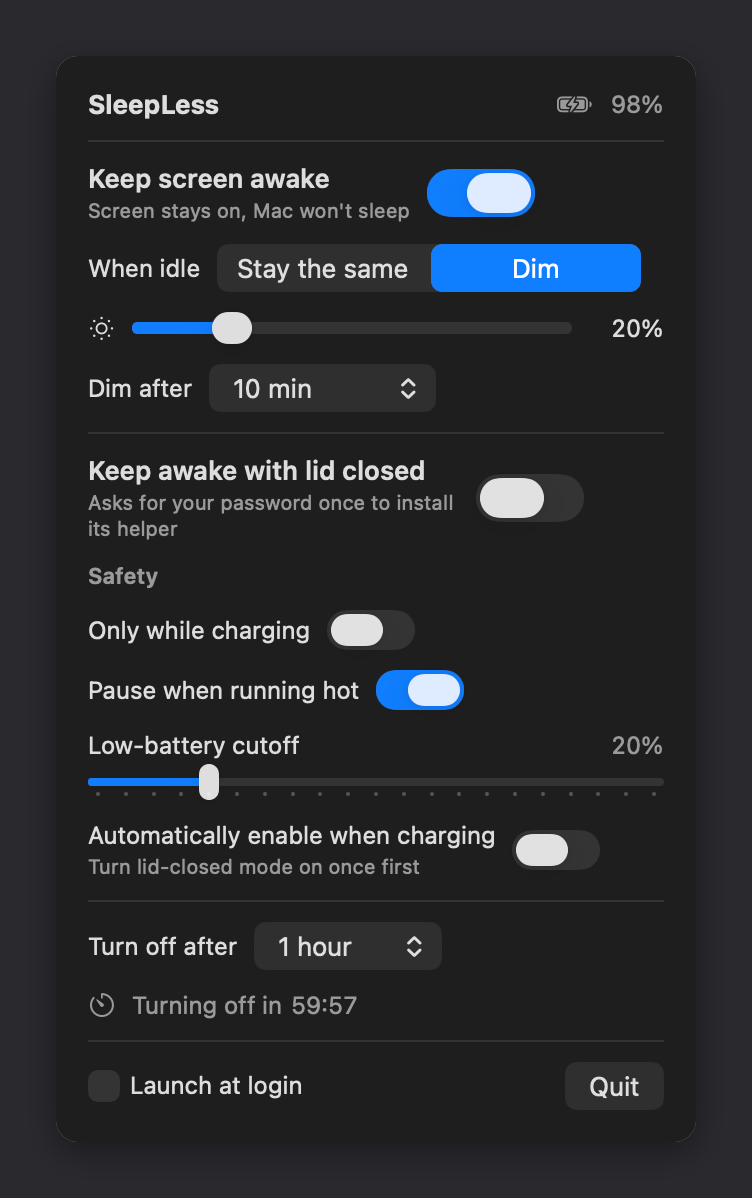
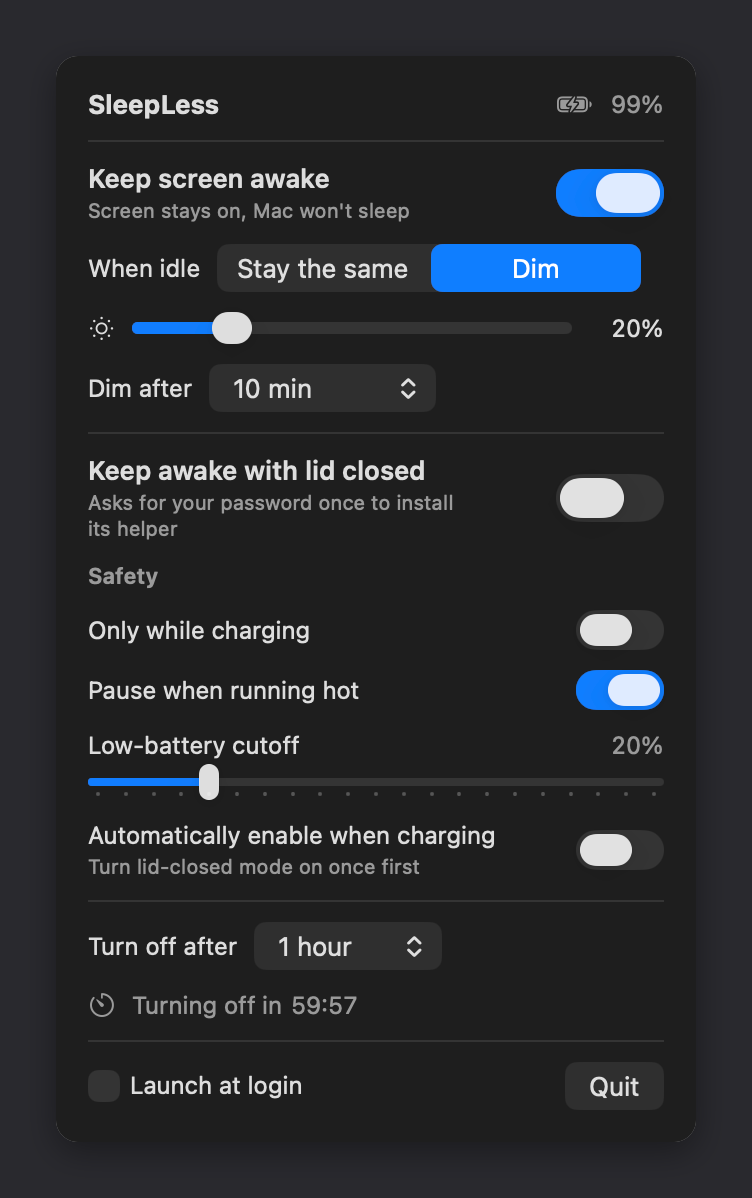
fix: right-align panel switches; refresh screenshots; doc accuracy
- SwitchRow: HStack + Spacer with a labels-hidden toggle, so every
  switch sits on the panel's right edge instead of after its label
- Regenerated panel-light/panel-dark screenshots (assets + docs)
- README/site: watchdog restores sleep within ~2 min after a crash
  (quitting is immediate), drop the helper line count, comparison row
  is "Keep the screen on (lid open)", note that a helper update
  re-prompts once

diff --git a/docs/index.html b/docs/index.html
@@ -150,7 +150,7 @@
       <div class="card"><div class="icon">💻</div><h3>Keep awake with lid closed</h3><p>Sets the one flag that beats lid-close sleep on Apple Silicon (<code>SleepDisabled</code>) through a tiny root helper you approve once with your password.</p></div>
       <div class="card"><div class="icon">🛡</div><h3>Safety cut-offs</h3><p>Only while charging. Pause when running hot. Low-battery cutoff (default 20 %). Automatically enable when you plug in, off when you unplug.</p></div>
       <div class="card"><div class="icon">⏱</div><h3>Turn off after</h3><p>15 min to 4 hours with a live countdown, then everything turns off and normal sleep is back.</p></div>
-      <div class="card"><div class="icon">🐕</div><h3>Watchdog</h3><p>If the app quits, crashes or hangs, the helper restores normal sleep within about 90 s. Your Mac can never get stuck unable to sleep.</p></div>
+      <div class="card"><div class="icon">🐕</div><h3>Watchdog</h3><p>If the app crashes or hangs, the helper restores normal sleep within about two minutes; quitting normally restores it immediately. Your Mac can never get stuck unable to sleep.</p></div>
     </div>
   </div>
 </section>
@@ -167,7 +167,7 @@
       <div class="card">
         <h3>Lid closed</h3>
         <div class="step"><b>1</b><div>The app writes <code>1</code> or <code>0</code> to a request file and rewrites it every 30 s.</div></div>
-        <div class="step"><b>2</b><div>launchd runs the 70-line root helper on every write and every 30 s; it runs <code>pmset -a disablesleep 1|0</code> to match.</div></div>
+        <div class="step"><b>2</b><div>launchd runs the root helper — a short shell script — on every write and every 30 s; it runs <code>pmset -a disablesleep 1|0</code> to match.</div></div>
         <div class="step"><b>3</b><div>A request older than 90 s counts as <code>0</code> — the watchdog. The helper only undoes a <code>SleepDisabled</code> it set itself.</div></div>
       </div>
     </div>

diff --git a/SleepLess.swift b/SleepLess.swift
@@ -72,7 +72,7 @@ struct Panel: View {
     }
 }
 
-/// Title + subtitle on the left, a switch on the right.
+/// Title + subtitle on the left, a switch pinned to the right edge.
 struct SwitchRow: View {
     let title: String
     var subtitle: String?
@@ -80,14 +80,17 @@ struct SwitchRow: View {
     @Binding var isOn: Bool
 
     var body: some View {
-        Toggle(isOn: $isOn) {
+        HStack(spacing: 12) {
             VStack(alignment: .leading, spacing: 2) {
                 Text(title).font(bold ? .body.weight(.semibold) : .callout)
                 if let subtitle { Text(subtitle).font(.caption).foregroundStyle(.secondary) }
             }
+            Spacer(minLength: 0)
+            Toggle(title, isOn: $isOn)
+                .labelsHidden()
+                .toggleStyle(.switch)
+                .controlSize(bold ? .regular : .small)
         }
-        .toggleStyle(.switch)
-        .controlSize(bold ? .regular : .small)
     }
 }
 

diff --git a/README.md b/README.md
@@ -41,11 +41,11 @@
 
 ### Lid closed
 
-Assertions do not stop a MacBook from sleeping when the lid closes. The only reliable override on Apple Silicon is `SleepDisabled` in `IOPMrootDomain`, which needs root. SleepLess therefore installs a **root launchd helper** — a 70-line shell script, [`sleepless-helper.sh`](sleepless-helper.sh) — with a single macOS admin prompt the first time you flip the switch:
+Assertions do not stop a MacBook from sleeping when the lid closes. The only reliable override on Apple Silicon is `SleepDisabled` in `IOPMrootDomain`, which needs root. SleepLess therefore installs a **root launchd helper** — a short shell script, [`sleepless-helper.sh`](sleepless-helper.sh) — with a single macOS admin prompt the first time you flip the switch:
 
 1. The app writes `1` or `0` to `/Library/Application Support/SleepLess/lid` and rewrites it every 30 s while lid-closed mode is on.
 2. launchd runs the helper on every write and every 30 s; the helper runs `pmset -a disablesleep 1` or `0` to match.
-3. **Watchdog:** a request file older than 90 s counts as `0`. If the app quits, crashes or hangs, normal sleep comes back within about a minute.
+3. **Watchdog:** a request file older than 90 s counts as `0`. If the app crashes or hangs, normal sleep comes back within about two minutes (90 s of staleness plus up to 30 s until the helper's next run). Quitting normally restores it immediately.
 4. The helper only ever undoes a `SleepDisabled` that it set itself (it keeps a marker file), so it will not fight `pmset` or another tool.
 
 The app also reads the live `SleepDisabled` flag, so the panel shows whether lid-closed mode is *really* active, and tells you if something else has disabled sleep.
@@ -54,7 +54,7 @@ The app also reads the live `SleepDisabled` flag, so the panel shows whether lid
 
 | | `caffeinate` | [Lidless](https://github.com/nghialuong/Lidless) | SleepLess |
 | --- | :---: | :---: | :---: |
-| Keep awake, lid open | ✓ | | ✓ |
+| Keep the screen on (lid open) | ✓ | | ✓ |
 | Dim the screen while idle | | | ✓ |
 | Keep awake, lid closed (`SleepDisabled`) | | ✓ | ✓ |
 | Safety cut-offs (charging / thermal / battery) | | ✓ | ✓ |
@@ -81,7 +81,7 @@ cd SleepLess
 
 - SleepLess lives in the **menu bar** — look for the rounded lid icon. There is no Dock icon.
 - It registers itself as a **login item** on first launch (macOS may show a "background items added" notification). Untick *Launch at login* in the panel if you would rather not.
-- The first time you turn on **Keep awake with lid closed**, macOS asks for your **administrator password once** to install the helper. You will not be asked again.
+- The first time you turn on **Keep awake with lid closed**, macOS asks for your **administrator password once** to install the helper. You will not be asked again (unless a future version updates the helper, which the app detects and re-installs with one prompt).
 - If you use **Bartender**, **Ice** or a similar menu-bar organiser, or your menu bar is crowded next to the notch, the icon may be hidden — look for it there.
 
 ## Usage
